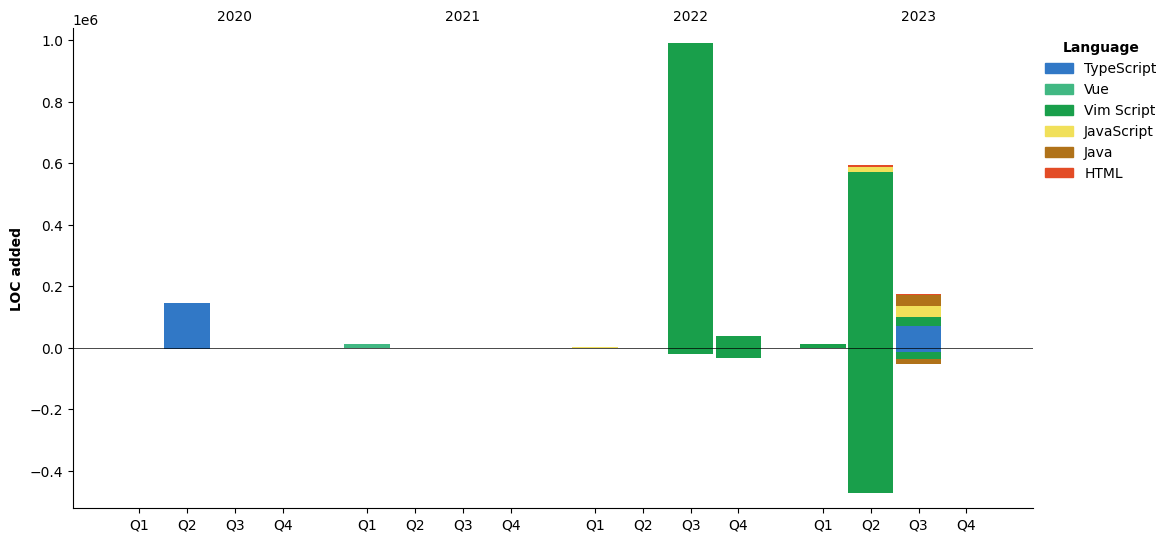
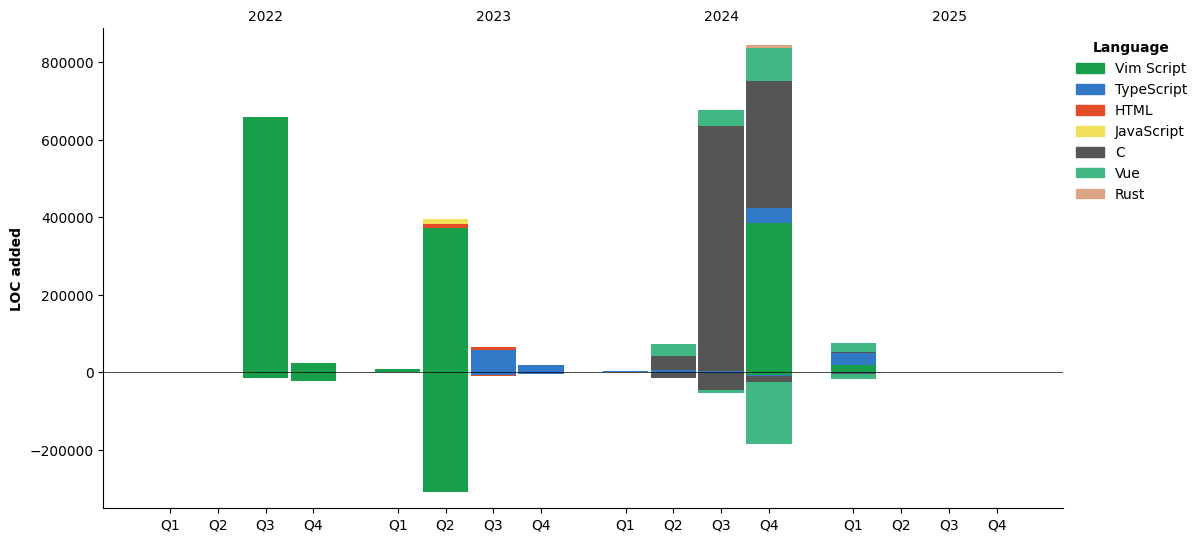
Updated with Dev Metrics

diff --git a/README.md b/README.md
@@ -1,4 +1,91 @@
 ![](./profile-3d-contrib/profile-night-rainbow.svg)
 
 <!--START_SECTION:waka-->
+![Code Time](http://img.shields.io/badge/Code%20Time-3%2C221%20hrs%2038%20mins-blue)
+
+![Profile Views](http://img.shields.io/badge/Profile%20Views-11-blue)
+
+![Lines of code](https://img.shields.io/badge/From%20Hello%20World%20I%27ve%20Written-2.8%20million%20lines%20of%20code-blue)
+
+**🐱 My GitHub Data** 
+
+> 📦 239.5 kB Used in GitHub's Storage 
+ > 
+> 🏆 177 Contributions in the Year 2025
+ > 
+> 🚫 Not Opted to Hire
+ > 
+> 📜 19 Public Repositories 
+ > 
+> 🔑 16 Private Repositories 
+ > 
+**I'm an Early 🐤** 
+
+```text
+🌞 Morning                354 commits         ████░░░░░░░░░░░░░░░░░░░░░   14.03 % 
+🌆 Daytime                1223 commits        ████████████░░░░░░░░░░░░░   48.47 % 
+🌃 Evening                905 commits         █████████░░░░░░░░░░░░░░░░   35.87 % 
+🌙 Night                  41 commits          ░░░░░░░░░░░░░░░░░░░░░░░░░   01.63 % 
+```
+📅 **I'm Most Productive on Friday** 
+
+```text
+Monday                   382 commits         ████░░░░░░░░░░░░░░░░░░░░░   15.14 % 
+Tuesday                  363 commits         ████░░░░░░░░░░░░░░░░░░░░░   14.39 % 
+Wednesday                317 commits         ███░░░░░░░░░░░░░░░░░░░░░░   12.56 % 
+Thursday                 416 commits         ████░░░░░░░░░░░░░░░░░░░░░   16.49 % 
+Friday                   443 commits         ████░░░░░░░░░░░░░░░░░░░░░   17.56 % 
+Saturday                 299 commits         ███░░░░░░░░░░░░░░░░░░░░░░   11.85 % 
+Sunday                   303 commits         ███░░░░░░░░░░░░░░░░░░░░░░   12.01 % 
+```
+
+
+📊 **This Week I Spent My Time On** 
+
+```text
+🕑 Time Zone: Asia/Shanghai
+
+💬 Programming Languages: 
+Vue.js                   19 hrs 52 mins      ████████████░░░░░░░░░░░░░   47.17 % 
+TypeScript               17 hrs 8 mins       ██████████░░░░░░░░░░░░░░░   40.66 % 
+Other                    1 hr 59 mins        █░░░░░░░░░░░░░░░░░░░░░░░░   04.71 % 
+JSON                     1 hr 24 mins        █░░░░░░░░░░░░░░░░░░░░░░░░   03.33 % 
+ExtendTypeScript         59 mins             █░░░░░░░░░░░░░░░░░░░░░░░░   02.35 % 
+
+🔥 Editors: 
+VS Code                  33 hrs 6 mins       ████████████████████░░░░░   78.54 % 
+Zed                      6 hrs 33 mins       ████░░░░░░░░░░░░░░░░░░░░░   15.55 % 
+Devecostudio             2 hrs 26 mins       █░░░░░░░░░░░░░░░░░░░░░░░░   05.78 % 
+Obsidian                 2 mins              ░░░░░░░░░░░░░░░░░░░░░░░░░   00.11 % 
+Windsurf                 0 secs              ░░░░░░░░░░░░░░░░░░░░░░░░░   00.02 % 
+
+🐱💻 Projects: 
+mp3-editor-weapp         35 hrs 20 mins      █████████████████████░░░░   83.84 % 
+harmony-project          2 hrs 26 mins       █░░░░░░░░░░░░░░░░░░░░░░░░   05.78 % 
+slicer                   1 hr 58 mins        █░░░░░░░░░░░░░░░░░░░░░░░░   04.67 % 
+music-generator-weapp    56 mins             █░░░░░░░░░░░░░░░░░░░░░░░░   02.24 % 
+config                   44 mins             ░░░░░░░░░░░░░░░░░░░░░░░░░   01.77 % 
+
+💻 Operating System: 
+Mac                      42 hrs 9 mins       █████████████████████████   100.00 % 
+```
+
+**I Mostly Code in TypeScript** 
+
+```text
+TypeScript               15 repos            ██████████████░░░░░░░░░░░   55.56 % 
+Vue                      2 repos             ██░░░░░░░░░░░░░░░░░░░░░░░   07.41 % 
+JavaScript               2 repos             ██░░░░░░░░░░░░░░░░░░░░░░░   07.41 % 
+Rust                     1 repo              █░░░░░░░░░░░░░░░░░░░░░░░░   03.70 % 
+Objective-C              1 repo              █░░░░░░░░░░░░░░░░░░░░░░░░   03.70 % 
+```
+
+
+
+**Timeline**
+
+![Lines of Code chart](https://raw.githubusercontent.com/kevinxft/kevinxft/main/assets/bar_graph.png)
+
+
+ Last Updated on 11/03/2025 15:10:29 UTC
 <!--END_SECTION:waka-->
